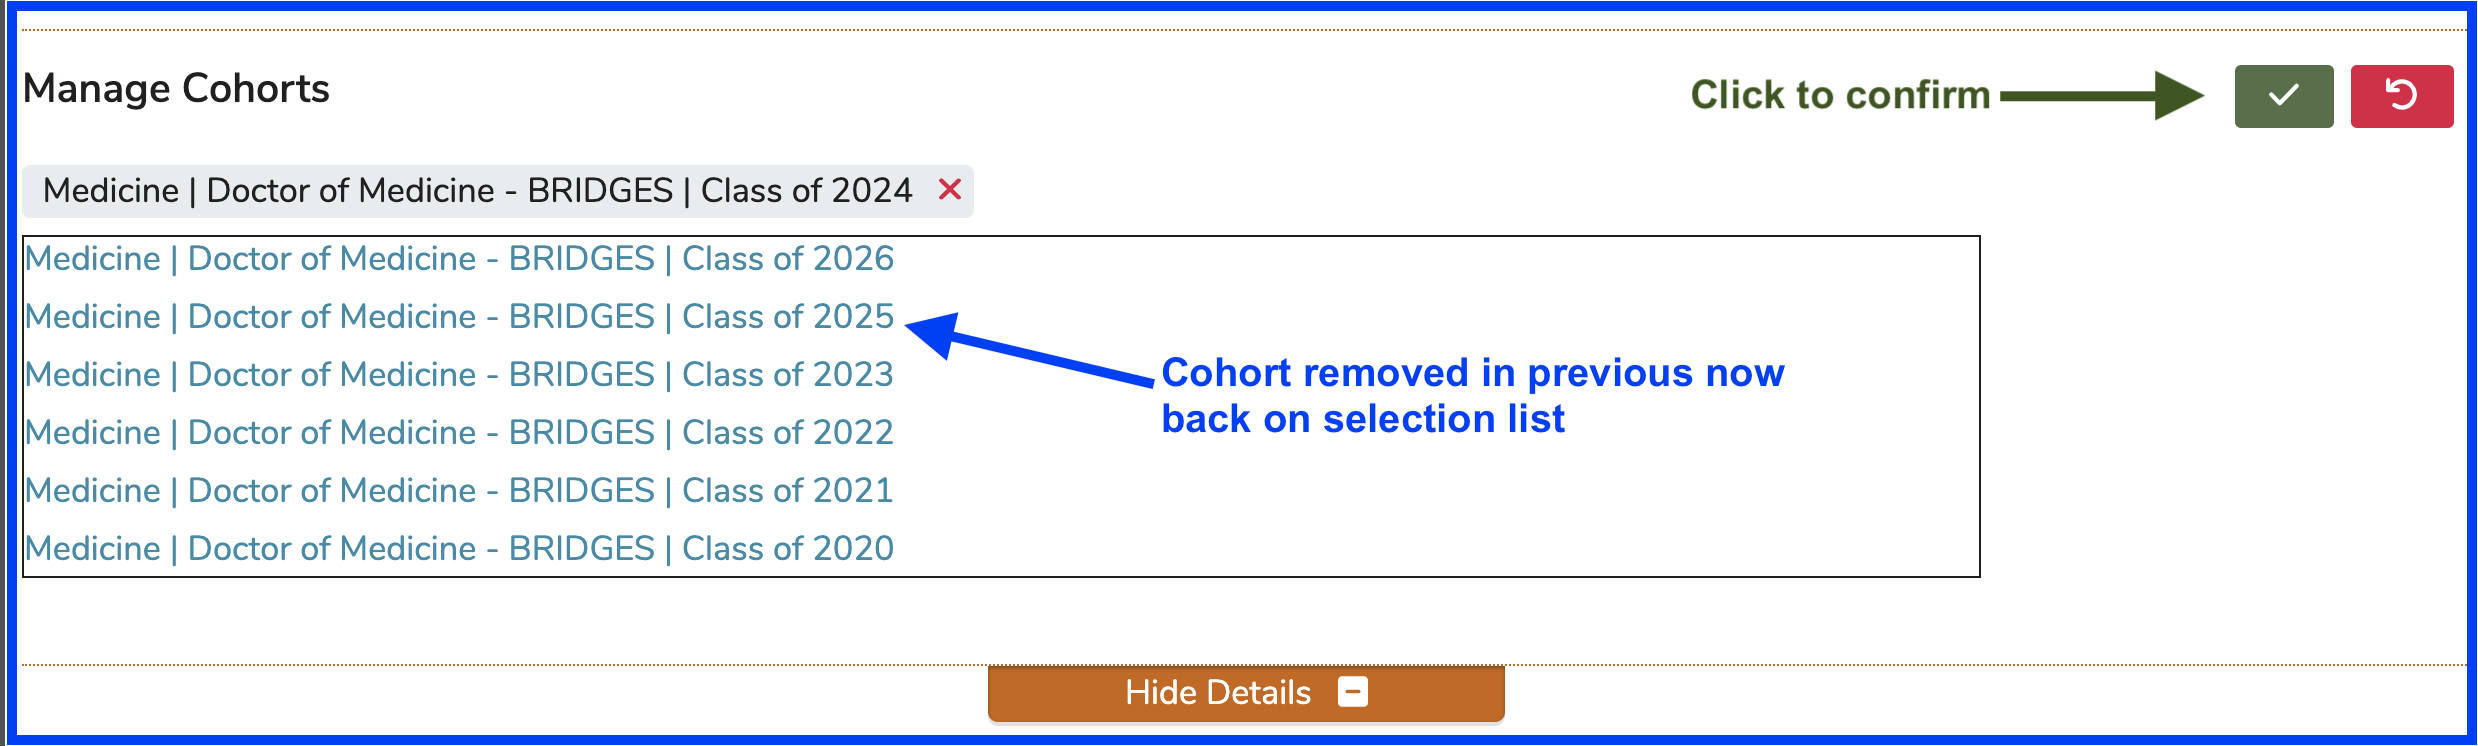
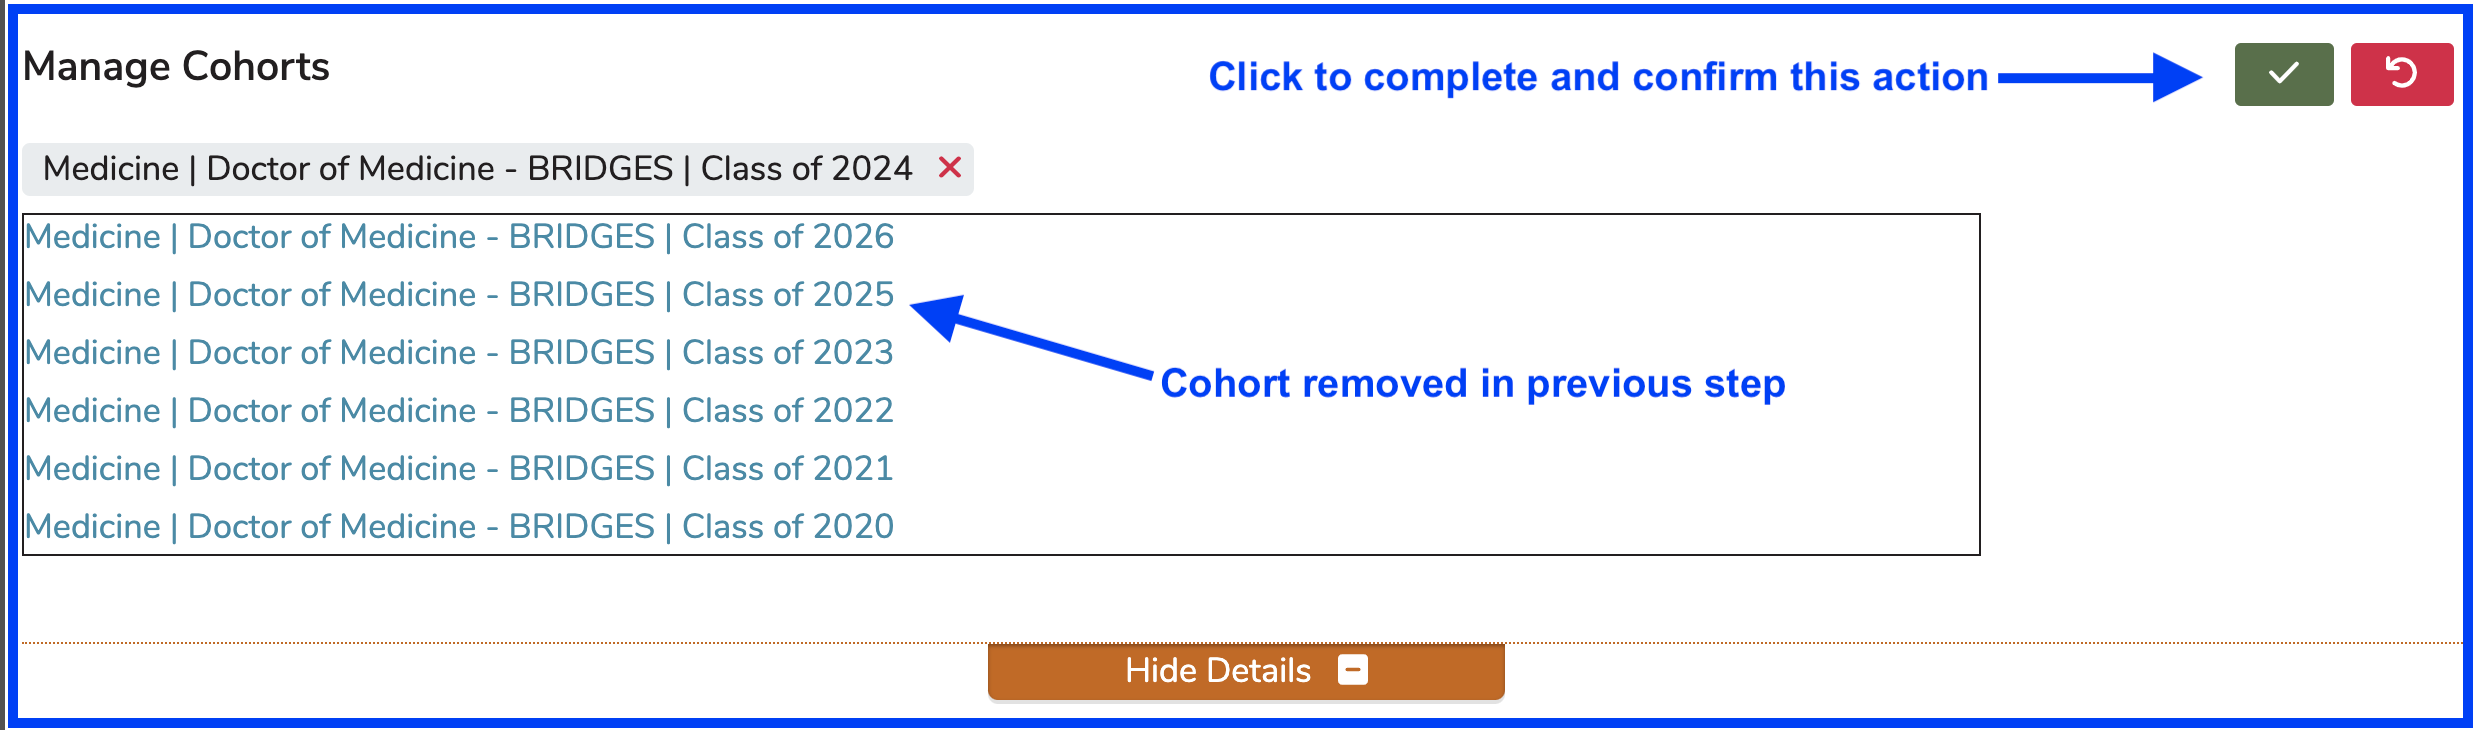
GitBook: [#665] remove_course_cohort_3

diff --git a/courses-and-sessions/courses/edit-course.md b/courses-and-sessions/courses/edit-course.md
@@ -89,7 +89,9 @@ Cohorts can also be removed from a Course in a similar manner.
 
 <figure><img src="../../.gitbook/assets/remove_cohort_1.png" alt=""><figcaption><p>Remove Cohort - Step 1</p></figcaption></figure>
 
+After performing the action shown above, we need to complete the process by clicking the green Save/Done button.
 
+<figure><img src="../../.gitbook/assets/remove_cohort_2.png" alt=""><figcaption><p>Remove Cohort - Step 2</p></figcaption></figure>
 
 
 
